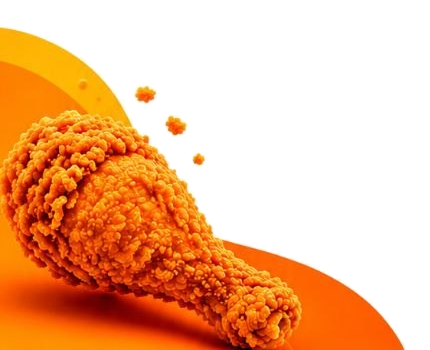
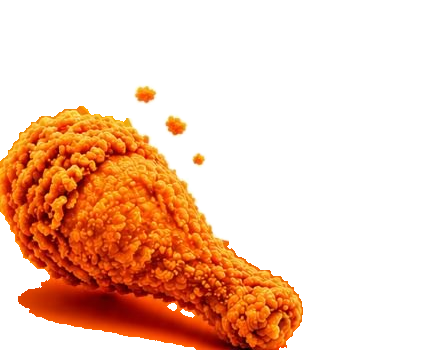
feat(auth): start pages without corner curls (food pictures only) in the deep theme colour

diff --git a/frontend/src/features/subscription/ChoosePlanScreen.tsx b/frontend/src/features/subscription/ChoosePlanScreen.tsx
@@ -177,7 +177,7 @@ export default function ChoosePlanScreen() {
           style={{ paddingTop: 56, paddingHorizontal: 22 }}
         >
           <AuthLogo />
-          <AuthTitle text={t('plan.chooseTitle')} accent={brand.primary} />
+          <AuthTitle text={t('plan.chooseTitle')} accent={brand.primaryDeep} />
           <AuthSubtitle
             text={`${t('auth.step', { current: 3, total: 3 })} · ${t('plan.changeLater')}`}
           />
@@ -186,7 +186,7 @@ export default function ChoosePlanScreen() {
               <View
                 key={n}
                 className="h-1.5 flex-1 rounded-[3px]"
-                style={{ backgroundColor: brand.primary }}
+                style={{ backgroundColor: brand.primaryDeep }}
               />
             ))}
           </View>
@@ -197,13 +197,13 @@ export default function ChoosePlanScreen() {
                 <PeriodChip
                   label={t('plan.oneMonth')}
                   selected={period === 'monthly'}
-                  color={brand.primary}
+                  color={brand.primaryDeep}
                   onPress={() => setPeriod('monthly')}
                 />
                 <PeriodChip
                   label={`${t('plan.threeMonths')} −${formatMoney(normalQuarterlySavingEtb, false)}`}
                   selected={period === 'quarterly'}
-                  color={brand.primary}
+                  color={brand.primaryDeep}
                   onPress={() => setPeriod('quarterly')}
                 />
               </View>
@@ -214,13 +214,13 @@ export default function ChoosePlanScreen() {
                   priceEtb={restaurantMonthlyEtb}
                   unit={t('plan.perMonthShort')}
                   selected={chosen === 'restaurant'}
-                  color={brand.primary}
+                  color={brand.primaryDeep}
                   onPress={() => setChosen('restaurant')}
                 >
                   <View className="flex-row gap-2">
                     <Check
                       size={15}
-                      color={brand.primary}
+                      color={brand.primaryDeep}
                       strokeWidth={3}
                       style={{ marginTop: 2 }}
                     />
@@ -238,7 +238,7 @@ export default function ChoosePlanScreen() {
                     : `${t('common.etb')} / ${t('plan.threeMonths')}`
                 }
                 selected={chosen === normalPlan}
-                color={brand.primary}
+                color={brand.primaryDeep}
                 onPress={() => setChosen(normalPlan)}
               >
                 <Text className={featureText}>{t('plan.normalFeatures')}</Text>

diff --git a/frontend/src/components/ui/StarterLoader.tsx b/frontend/src/components/ui/StarterLoader.tsx
@@ -55,8 +55,8 @@ function LogoLoader({ still }: { still: boolean }) {
             height: ring,
             borderRadius: ring / 2,
             borderWidth: 5,
-            borderColor: alpha(g.primary, 0.15),
-            borderTopColor: g.primary,
+            borderColor: alpha(g.primaryDeep, 0.15),
+            borderTopColor: g.primaryDeep,
             borderRightColor: g.primary2,
           },
           spin,
@@ -110,7 +110,7 @@ function Dot({ index, still, color }: { index: number; still: boolean; color: st
 export function StarterLoader({ title, subtitle }: { title: string; subtitle: string }) {
   const still = useReducedMotion();
   const g = useGlass();
-  const dots = [g.primary, g.primary2, g.primaryText];
+  const dots = [g.primaryDeep, g.primary, g.primary2];
   const words = title.split(' ');
   const head = words.length > 1 ? `${words.slice(0, -1).join(' ')} ` : '';
   return (
@@ -123,7 +123,7 @@ export function StarterLoader({ title, subtitle }: { title: string; subtitle: st
       <View style={{ alignItems: 'center', gap: 4, paddingHorizontal: 24 }}>
         <Text font="heading" className="text-center text-[22px]" style={{ color: TEXT }}>
           {head}
-          <Text font="heading" className="text-[22px]" style={{ color: g.primary }}>
+          <Text font="heading" className="text-[22px]" style={{ color: g.primaryDeep }}>
             {words[words.length - 1]}
           </Text>
         </Text>

diff --git a/frontend/src/components/ui/AuthBackground.tsx b/frontend/src/components/ui/AuthBackground.tsx
@@ -1,25 +1,19 @@
 import type { ReactNode } from 'react';
 import { Image, useWindowDimensions, View } from 'react-native';
 
-// Corner pictures of the Sign in / Sign up background, sized on a 720 px wide design.
-const topLeft = require('../../../assets/images/auth/corner-top-left.png') as number;
+// Food pictures in three corners of the Sign in / Sign up / splash background (no curl shapes),
+// sized on a 720 px wide design.
 const topRight = require('../../../assets/images/auth/corner-top-right.png') as number;
 const bottomLeft = require('../../../assets/images/auth/corner-bottom-left.png') as number;
 const bottomRight = require('../../../assets/images/auth/corner-bottom-right.png') as number;
 
 const DESIGN_WIDTH = 720;
 
-/** White auth background with food corner pictures; children render on top. */
+/** White auth background with the pizza, chicken and shake pictures; children render on top. */
 export function AuthBackground({ children }: { children?: ReactNode }) {
   const s = useWindowDimensions().width / DESIGN_WIDTH;
   return (
     <View style={{ flex: 1, backgroundColor: '#FFFFFF' }}>
-      <Image
-        source={topLeft}
-        pointerEvents="none"
-        resizeMode="contain"
-        style={{ position: 'absolute', top: 0, left: 0, width: 290 * s, height: 240 * s }}
-      />
       <Image
         source={topRight}
         pointerEvents="none"

diff --git a/frontend/src/features/theme/FirstThemeScreen.tsx b/frontend/src/features/theme/FirstThemeScreen.tsx
@@ -40,7 +40,7 @@ export function FirstThemeScreen() {
           style={[{ paddingTop: 56, paddingHorizontal: 22 }, themeVars(picked)]}
         >
           <AuthLogo />
-          <AuthTitle text={t('firstTheme.chooseTitle')} accent={brand.primary} />
+          <AuthTitle text={t('firstTheme.chooseTitle')} accent={brand.primaryDeep} />
           {/* Step 2 of 3 in the start flow: account, colour, plan. */}
           <AuthSubtitle
             text={`${t('auth.step', { current: 2, total: 3 })} · ${t('firstTheme.changeLater')}`}
@@ -50,7 +50,7 @@ export function FirstThemeScreen() {
               <View
                 key={n}
                 className={`h-1.5 flex-1 rounded-[3px] ${n <= 2 ? '' : 'bg-black/10'}`}
-                style={n <= 2 ? { backgroundColor: brand.primary } : null}
+                style={n <= 2 ? { backgroundColor: brand.primaryDeep } : null}
               />
             ))}
           </View>
@@ -61,7 +61,7 @@ export function FirstThemeScreen() {
                 <View key={row[0]} className="flex-row gap-2">
                   {row.map((id) => {
                     const selected = id === picked;
-                    const color = themes[id].primary;
+                    const color = themes[id].primaryDeep;
                     const name = t(`themes.${id}`);
                     return (
                       <Pressable

diff --git a/frontend/src/features/auth/AuthParts.tsx b/frontend/src/features/auth/AuthParts.tsx
@@ -19,9 +19,10 @@ export const AUTH = {
 export function useAuthColors() {
   const brand = useBrandColors();
   return {
-    p: brand.primary,
+    // The start pages use the deep theme colour for every accent.
+    p: brand.primaryDeep,
     p2: shade(brand.primary, 0.16),
-    pt: brand.primaryText,
+    pt: brand.primaryDeep,
     deep: brand.primaryDeep,
   };
 }
